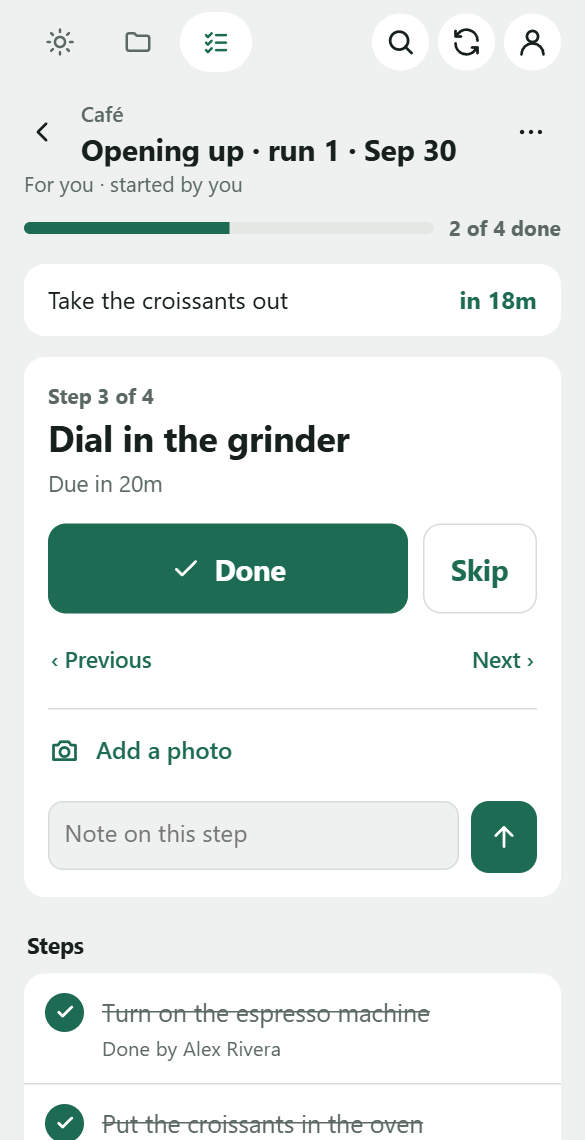
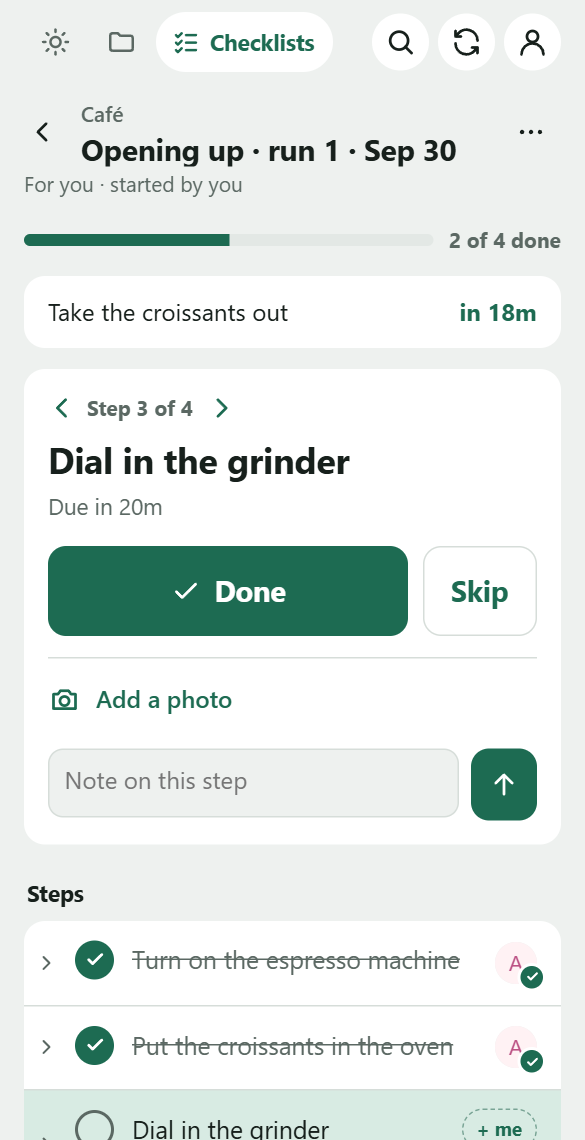
docs: setting up checklists, sharing at Read & write in Vikunja, and the README's pictures made again
The README's checklist steps start from Set up checklists, mention New project's checkbox, say sharing is done in
Vikunja's web app at Read & write, and that @priya gives a step to Priya. The guide follows the fix round: Getting
started, When it's due, handing a step over from the run's sheet, skips, kept text in the insert box, and what a
checklist project's subtask box reads. The plan is docs/design/checklist-setup-plan.md. The GIFs and screenshots are
made again with npm run demo.

diff --git a/docs/guide.md b/docs/guide.md
@@ -57,7 +57,8 @@ adding and finishing tasks, handing them on, and checklists. Boards, project set
   run's bar shows how many of its steps are done instead, and a run's steps are held and slid the same way.
 - **The task sheet:** due date, repeat, project, priority, progress, people, labels, notes, subtasks, attachments and
   comments. Changes save as you make them. Subtasks are added with the same box as quick add, except `+project`: a
-  subtask stays in its task's project. Moving a task to another
+  subtask stays in its task's project. In a project for checklists it doesn't read dates either, as a task's subtasks
+  there may become a template's steps, whose time is their own; a chip says so. Moving a task to another
   project takes its subtasks along. The **⋯** at the top of the sheet deletes it, with its subtasks. Tap the project above the title to open it.
 - **Search:** the magnifier finds open and done tasks in all your projects, by words in their title or notes, or by
   number. A ticked result moves from Open to Done.
@@ -142,7 +143,9 @@ in a project they can see.
 
 **Who's doing a subtask or a step:** every subtask in a task's sheet, and every step of a run, has a slot at the end of
 its row. **+ me** says you'll do it, which assigns it to you; tap your picture to let it go. Someone else's picture
-shows who has it; to hand it over, open it and use **Assigned**. Done or skipped is still recorded for whoever taps it,
+shows who has it; to hand it over, open it and use **Assigned** (a run's step: the run's **⋯** → **Open as a task**,
+then tap the step). Two people who say they'll do a step
+at the same moment don't both get it: the first keeps it, and the other is told. Done or skipped is still recorded for whoever taps it,
 whoever has the step, and claiming never ticks anything. A step you claim in someone else's run shows on your Today.
 Vikunja tells the task's creator (for a step, whoever started the run) when you claim it.
 
@@ -153,46 +156,59 @@ one is a run, with who did each step and when. They're ordinary Vikunja projects
 
 <p align="center"><img src="screenshots/pocket-checklist.gif" width="300" alt="Starting a run of the café's Opening up template. Once the espresso machine is on and the croissants are in, 'Dial in the grinder' and 'Take the croissants out' count down, pinned at the top."></p>
 
-1. **Use a project for checklists.** Open it, tap **⋯** and choose **Use for checklists**, or tick **Use for
-   checklists** in **New project**. Everyone it's shared with gets a **Checklists** tab. Share it in Vikunja with the
-   people who'll run it, at *Write*.
+1. **Use a project for checklists.** Under Projects, **Set up checklists** makes a project called Checklists with an
+   example template to try, "Example: Opening up": start it, then change it into your own or delete it. Or open a
+   project of yours, tap **⋯** and choose **Use for checklists**, or tick **Use for checklists** in **New project**.
+   Everyone it's shared with gets a **Checklists** tab. Under Checklists, **Getting started** says what's next, for the
+   project's owner, until it's hidden; the project's **⋯** shows it again.
+   **Share it** with the people who'll run it. That's done in Vikunja's web app, not in Pocket: the link in Getting
+   started, or **Share it in Vikunja** in the project's **⋯**, opens its share page. Pick **Read & write**: Vikunja
+   starts on *Read only*, which lets them see runs but not tick steps.
 2. **Make a template.** Under Checklists, tap **New template**, name it, and write its steps, a row each: **Enter** or
    **Add a step** starts the next one, and a pasted list becomes a row a line. The name and each step are read as quick
    add reads a task, with the same chips: `@priya` assigns it, `*front` labels it, `!3` sets its priority. Dates aren't
-   read there: a step's time is its own. Move steps up or down, then tap **Make template**. In a template's sheet, tap a step to change it, move it with ↑ and ↓, or remove it with ×; runs already
+   read there: a step's time is its own, and a chip says so. Each box, empty, says what it reads. Move steps up or
+   down, then tap **Make template**. When it comes round, if it should, is set in its sheet once it's made. In a template's sheet, tap a step to change it, move it with ↑ and ↓, or remove it with ×; runs already
    started keep theirs. **Notes and photos** under it opens the step in its own sheet: each run's copy of the step
    comes with its notes, so that's the place for how to do it.
    A task with its steps as subtasks can also be made one, with **Use as checklist template** in its sheet's **⋯**.
-3. **Start a run.** Tap **Start** and choose who it's for: one or more people who can work on the project, the
-   template's assignees to start with. A name, like "Saturday", takes the place of "run 3" in the run's name. A run can be started without a connection, from the templates last
+   Its **template** label is what makes it one, so its sheet doesn't offer to take that off; delete it from its **⋯**.
+3. **Start a run.** Tap **Start** and choose who it's for: tap everyone it's for, one or more people who can work on
+   the project, the template's assignees to start with. The steps say who each is for. A name, like "Saturday", takes the place of "run 3" in the run's name. A run can be started without a connection, from the templates last
    seen under Checklists, and is set up once Pocket reaches Vikunja. A step assigned to someone in the template stays
    assigned to them in every run.
-4. **Work through it.** One step at a time: **Done**, or **Skip**. A note typed on the step goes with either: **Done,
-   with the note** saves it on the step, and **Skip with the note** makes it the reason. Add a photo or a note to a step,
-   or a note to the whole run. **Last time** shows the notes from the last finished run of the same template, as a
-   handover. ‹ and › beside the step's number show the step before and after. After the last step, **Finish run**,
+4. **Work through it.** One step at a time: **Done**, or **Skip**. A note typed on the step goes with either: Done
+   saves it on the step, and Skip makes it the reason. After Done, the next step that can be done is on screen, not one
+   still counting down. Add a photo or a note to a step, or a note to the whole run; a step with notes has a mark on its
+   row. **Last time** shows the notes from the last finished run of the same template, as a handover, and each step's
+   card shows the ones left on it. ‹ and › beside the step's number show the step before and after. On a long run,
+   the bar with the count stays at the top: tap it to go back up. A skipped step counts as skipped, not done. After the last step, **Finish run**,
    with an Undo. Ticking a run in its project's list, or in its sheet, finishes it too; with steps not done, it asks
    first, and they stay not done.
 
-- **A checklist that comes round:** give the template a date in its sheet, under **Comes round**, and how it
+- **A checklist that comes round:** give the template a date in its sheet, under **When it's due**, and how it
   **Repeats**: every day at 8:00, say. It's then Vikunja's repeating task: at its time it shows on Today, without a tick,
   to its assignees (or, with none, everyone who can work on the project), and Vikunja emails its reminders. Tapping it
   opens Start. Starting a run of it on the day it's due moves it on to its next time, and the run is due at the time
   the template was, so one left open shows as overdue; the Start sheet says which time it's for. A start at 7:55 is the
   8:00 one. One left for weeks moves on to its next time after now: missed times aren't made up. Under Checklists, its
-  line says when it's next due. Without a repeat, starting it ends the schedule; taking its date off does too. **Move
-  all to today** leaves it where it is. Runs of the same template can be open at once. A task with a due date made a
+  line says when it's next due. Without a repeat, starting it ends the schedule; taking its date off does too, and
+  keeps its repeat for a date given again. On Today before its day, it says **Checklist, for then**: starting it early
+  doesn't move it on. **Move all to today** leaves it where it is, and isn't offered when it's all that's overdue. Runs of the same template can be open at once. A task with a due date made a
   template comes round at that date.
 - **A step the template doesn't have:** in **Steps**, the **›** at the left of any step opens a box under it, like the
   subtask box: what's typed in it and added with **+** is a step after that one, for this run only (a pasted list, a
   step a line). The last step's › adds one at the end. Quick add reads labels, people and priority there, but not
   dates. **🔁** beside it puts that step in the box: left as it is, **+** does that step again, as a fresh copy, not
   done, with the template's notes and photos for it but none of this run's; changed, it's a new step. Escape, or its ›
-  again, closes the box. Either says **Inserted** or **Repeated** under its title, here, in the
-  run's sheet and in Last time, and works like any step, offline too. One that isn't done yet can be deleted with the ×
+  again, closes the box, keeping what was typed for next time; 🔁 tapped again puts that back. Either says
+  **Inserted** or **Repeated** under its title, here, in the run's sheet and in Last time, and works like any step,
+  offline too. A run's sheet has no subtask box: steps are added on its screen, so they're marked. One that isn't done yet can be deleted with the ×
   on its row while it's on screen. The template never changes; a step from the template can't be taken out of a run,
   only skipped.
-- **Who did a step** is a ✅ reaction on it, or ⏭ for a skipped one, so Vikunja's web app shows it too. A step ticked on
+- **Who did a step** is a ✅ reaction on it, or ⏭ for a skipped one, so Vikunja's web app shows it too, with when:
+  "Done by Priya at 4:46 PM". Vikunja lets each person take off only their own ✅, so marking someone else's step not
+  done asks first: theirs stays on it. A step ticked on
   Today counts the same.
 - **Today** shows your runs, under **Checklist runs**, and their steps that are due, each with its run's name, to the
   person who started the run and the person it's for. A run's row is the same there and under Checklists: its steps
@@ -201,7 +217,9 @@ one is a run, with who did each step and when. They're ordinary Vikunja projects
 - **The run on screen** updates by itself as teammates tick steps.
 - **A run's ⋯** changes its name and who it's for, opens it as a task, reopens a finished run, and deletes a run with its
   steps. A run waiting to be set up can be cancelled with its ×. Finished runs are under **Finished lately**.
-- **Offline:** ticks, skips, notes and photos are sent once Pocket reaches Vikunja, in the order you did them.
+- **Offline:** ticks, skips, notes and photos are sent once Pocket reaches Vikunja, in the order you did them. A
+  **Not done** made offline isn't sent if the run was finished meanwhile. A step inserted offline can be called off from
+  Waiting to send; whatever of it reached Vikunja is taken out.
 - **In Vikunja's web app**, a template is a task labelled `template`, its title starting "TEMPLATE: " so it isn't
   deleted by mistake, with its steps as done subtasks. It's done, unless it comes round: then it's a repeating task
   there, and ticking it there skips that time without a run. Pocket shows the name without "TEMPLATE: ". A run is a

diff --git a/docs/design/checklist-setup-plan.md b/docs/design/checklist-setup-plan.md
@@ -1,0 +1,51 @@
+# Setting up checklists, for their owner — plan
+
+Agreed 2026-10-06, after the GUI test round: every first-time tester tripped on the same four points when setting up a
+project for checklists, and the user asked for Pocket to set one up itself, with an example to try.
+
+The four points:
+
+1. A project made "for checklists" opened on its empty task list, not on Checklists.
+2. Nothing in Pocket said sharing is done in Vikunja's web app, and Vikunja's share dialog starts on Read only.
+3. Nothing hinted that `@priya` in a step gives it to Priya.
+4. When a template comes round was only found in its sheet, once it was made.
+
+All of it is links and words, and one button that makes what New project and New template make already. No new data,
+and nothing new on Vikunja's side (Pocket's plugin stays a file server).
+
+## Set up checklists
+
+While you have no project for checklists, Projects, and Checklists' empty screen, have a card:
+
+> **Checklists**: step-by-step lists people run again and again, like opening up or a weekly clean.
+> **[Set up checklists]**
+> Makes a project called Checklists, with an example template to try.
+
+The button makes, as New project and New template would:
+
+- a project "Checklists", for checklists;
+- a template "Example: Opening up", whose notes say it's an example to try, then change or delete, with four steps:
+  the first for you (as `@you` would make it), the third due 18 minutes after the second (as "in 18 min" would);
+- then it opens Checklists.
+
+Offline it says it needs a connection. If the example can't be made, the project stays, and Checklists says so.
+
+## Getting started
+
+On Checklists, a project's owner (or someone it's shared with as admin: they can share it) sees a card above its
+templates until they hide it, kept per phone:
+
+1. **Share it** with the people who'll run its checklists, in Vikunja's web app, at **Read & write**. A link opens
+   Vikunja's share page for that project (`/projects/<id>/settings/share`).
+2. **Write a template**: the list each run copies, a step a line. "@priya" gives a step to Priya, and "in 18 min"
+   makes it due 18 minutes after the step before. A link opens New template.
+3. **Have it come round**, if it should: in the template's sheet, under When it's due, a date and Repeats. It shows on
+   Today then.
+
+The same share link sits in every project's ⋯ for its owner, with a line saying Read & write is what lets people tick.
+
+## Around it
+
+- A project made with New project and "Use for checklists" opens on Checklists, with the card.
+- New template says, under its steps, that when it comes round is set in its sheet once it's made.
+- Every quick add box says what it reads while it's empty, `@person` included (see the fix round of the same day).

diff --git a/README.md b/README.md
@@ -97,9 +97,11 @@ Tap a chip to keep its words in the title instead. A pasted list becomes a task 
 
 **Checklists:**
 
-1. Open a project, tap **⋯** and choose **Use for checklists**. Everyone it's shared with gets a **Checklists** tab.
-2. Under Checklists, tap **New template** and write its steps, a row each. To time a step, write it in the step:
-   "in 18 min", or "20 minutes after Turn on the espresso machine".
+1. Under Projects, tap **Set up checklists**: a project called Checklists, with an example to try. Or use a project of
+   yours: its **⋯** has **Use for checklists**, and **New project** has the same checkbox. Everyone it's shared with
+   gets a **Checklists** tab. Sharing is done in Vikunja's web app: pick **Read & write**, so they can tick steps.
+2. Under Checklists, tap **New template** and write its steps, a row each. `@priya` in a step gives it to Priya. To
+   time a step, write it in the step: "in 18 min", or "20 minutes after Turn on the espresso machine".
 3. Tap **Start** and choose who the run is for.
 4. Work through it: **Done**, or **Skip**. A note typed on the step goes with it.
 
